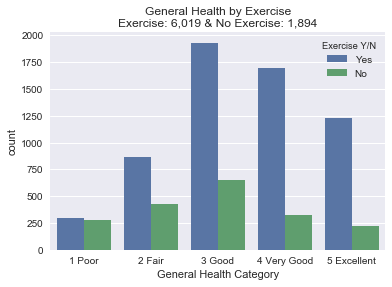
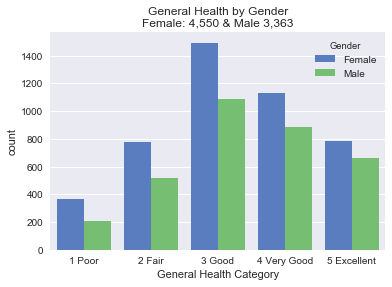
Updated MD folder

diff --git a/Mieae_Plots/Mieae_Plots.md b/Mieae_Plots/Mieae_Plots.md
@@ -313,6 +313,7 @@ data_df.head()
 
 
 ```python
+#Get counts
 gender_count = data_df["Gender"].value_counts()
 print(gender_count)
 diet_count = data_df["Fruit & Veg Servings"].count()
@@ -340,6 +341,7 @@ print(age_count)
 
 
 ```python
+#Diet graph
 sns.set(style="darkgrid")
 flatui = ["#9b59b6", "#3498db","#2ecc71"]
 sns.countplot(x="General Health Category", hue="Fruit & Veg Servings",data=data_df,palette=flatui,hue_order=["None","1-4 servings",">=5 servings"]).set_title("General Health by Diet\nTotal: 7,913")
@@ -352,6 +354,7 @@ plt.savefig("fruitveggie.png")
 
 
 ```python
+#Exercise Graph
 grouped_gender = data_df.groupby(['General Health Category','Exercise Y/N'])['General Health Category'].count().unstack('Exercise Y/N')
 grouped_gender[['Yes','No']].plot(kind='bar',edgecolor="black",stacked=True)
 
@@ -368,165 +371,16 @@ plt.savefig("exercisestack.png")
 
 
 
-    <matplotlib.figure.Figure at 0x2422f45d3c8>
+    <matplotlib.figure.Figure at 0x1c0b441c4a8>
 
 
 
 ```python
-sns.countplot(x="General Health Category", hue="Exercise Y/N", data=data_df).set_title("General Health by Exercise\nExercise: 6,019 & No Exercise: 1,894")
-plt.savefig("exercisesbs.png")
-```
-
-
-![png](output_6_0.png)
-
-
-
-```python
-bars = ("Excellent","Very Good","Good","Fair","Poor")
-
-grouped_gender = data_df.groupby(['General Health Category','Gender'])['General Health Category'].count().unstack('Gender')
-grouped_gender[['Male','Female']].plot(kind='bar',edgecolor="white",stacked=True)
-                                                        
-plt.ylabel("Count")
-plt.title("General Health by Gender\nFemale: 4,550 & Male 3,363")
-plt.legend (loc = "upper right")
-plt.xticks(rotation=0)
-plt.show()
-plt.savefig("genderstack.png")
-```
-
-
-![png](output_7_0.png)
-
-
-
-    <matplotlib.figure.Figure at 0x2422f5a1b38>
-
-
-
-```python
+#Gender Graph
 sns.countplot(x="General Health Category", hue="Gender",palette="muted", data=data_df).set_title("General Health by Gender\nFemale: 4,550 & Male 3,363")
 plt.savefig("gendersbs.png")
 ```
 
 
-![png](output_8_0.png)
-
-
-
-```python
-#Create a dataframe for each sex
-male = data_df[data_df["Sex"] == 1]
-female = data_df[data_df["Sex"] == 0]
-```
-
-
-```python
-m_count = male["Age Category"].value_counts()
-print(m_count)
-f_count = female["Age Category"].value_counts()
-print(f_count)
-```
-
-    45-64 yrs    1288
-    30-44 yrs     833
-    65+ yrs       675
-    18-24yrs      305
-    25-29 yrs     262
-    Name: Age Category, dtype: int64
-    45-64 yrs    1710
-    30-44 yrs    1228
-    65+ yrs       976
-    25-29 yrs     335
-    18-24yrs      301
-    Name: Age Category, dtype: int64
-    
-
-
-```python
-m_count = male["Gender"].value_counts()
-print(m_count)
-f_count = female["Gender"].value_counts()
-print(f_count)
-```
-
-    Male    3363
-    Name: Gender, dtype: int64
-    Female    4550
-    Name: Gender, dtype: int64
-    
-
-
-```python
-#General Health of Males by Age Group
-group_male = male.groupby(['General Health Category','Age Category'])['General Health Category'].count().unstack('Age Category')
-group_male[['18-24yrs','25-29 yrs','30-44 yrs','45-64 yrs','65+ yrs']].plot(kind="bar")
-
-plt.ylabel("Count")
-plt.title("General Health of Males by Age Group")
-plt.xticks(rotation=0)
-plt.ylim(0,600)
-plt.savefig("malesbyage.png")
-plt.show()
-```
-
-
-![png](output_12_0.png)
-
-
-
-```python
-#General Health of Males by Age Group
-group_male = male.groupby(['Age Category','General Health Category'])['Age Category'].count().unstack('General Health Category')
-group_male[['1 Poor','2 Fair','3 Good','4 Very Good','5 Excellent']].plot(kind="bar")
-
-plt.ylabel("Count")
-plt.title("General Health of Males by Age Group")
-plt.xticks(rotation=0)
-plt.ylim(0,600)
-plt.savefig("malesbyage2.png")
-plt.show()
-```
-
-
-![png](output_13_0.png)
-
-
-
-```python
-#General Health of Females by Age Group
-
-group_female = female.groupby(['General Health Category','Age Category'])['General Health Category'].count().unstack('Age Category')
-group_female[['18-24yrs','25-29 yrs','30-44 yrs','45-64 yrs','65+ yrs']].plot(kind="bar")
-
-plt.ylabel("Count")
-plt.title("General Health of Females by Age Group")
-plt.xticks(rotation=0)
-plt.ylim(0,600)
-plt.savefig("femalebyage.png")
-plt.show()
-```
-
-
-![png](output_14_0.png)
-
-
-
-```python
-#General Health of Females by Age Group
-group_female = female.groupby(['Age Category','General Health Category'])['Age Category'].count().unstack('General Health Category')
-group_female[['1 Poor','2 Fair','3 Good','4 Very Good','5 Excellent']].plot(kind="bar")
-#group_female = female.groupby(['Age Category'])
-
-plt.ylabel("Count")
-plt.title("General Health of Females by Age Group")
-plt.xticks(rotation=0)
-plt.ylim(0,600)
-plt.savefig("femalebyage2.png")
-plt.show()
-```
-
-
-![png](output_15_0.png)
+![png](output_6_0.png)
 
